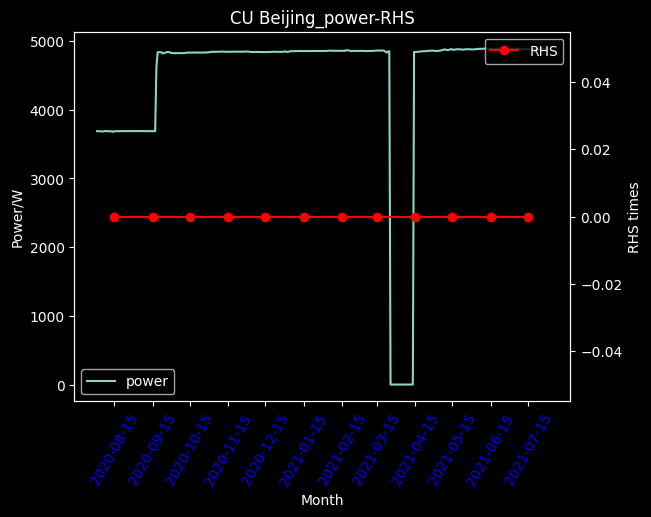
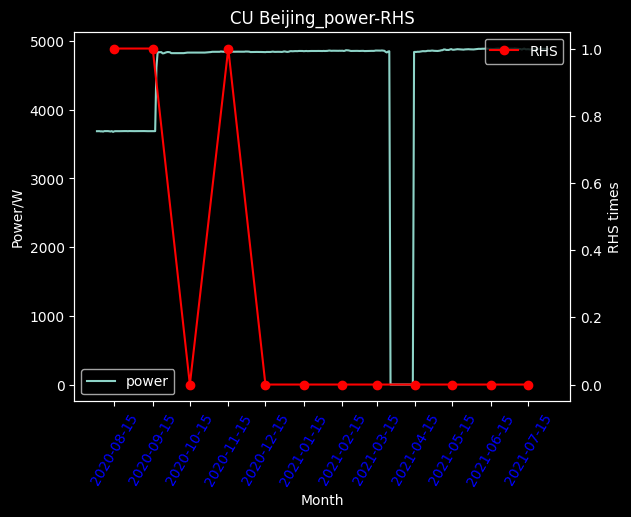
12

diff --git a/rhs_anly.py b/rhs_anly.py
@@ -11,13 +11,13 @@ import chi_test as ct
 
 raw_path = '/Users/pei/pydir/RHS_anly/raw_data/'
 result_path = '/Users/pei/pydir/RHS_anly/result/'
-rhs_log = pd.read_csv(raw_path + 'RHS Usage Log-Summary-update 20210827.csv')
+# rhs_log = pd.read_csv(raw_path + 'RHS Usage Log-Summary-update 20210827.csv')
+rhs_log = pd.read_excel(raw_path + 'RHS Usage Log-Summary-update 20210827.xlsx',engine='openpyxl',sheet_name='Log')
+# print(rhs_log)
 # print(rhs_log['Request Year-Month'].tolist())
 max_cab_pwr = pd.read_csv(raw_path + 'max_cab_power.csv')
 site_list = max_cab_pwr['Site ID'].tolist()
 total_device_list = pd.read_csv(raw_path + 'network device list.csv')
-# print(total_device_list[total_device_list['Site ID'] == site_list[0]])
-# print(site_list)
 
 pwr_file_list = os.listdir(raw_path + 'yearly_power_data/')
 for single_file in pwr_file_list:
@@ -48,20 +48,6 @@ for single_site in tqdm(site_list,desc='pwr-rhs'):
         # plt.legend(loc=2)
         plt.savefig(result_path + single_site + '_power-RHS.png', bbox_inches='tight')
         plt.close()
-'''
-bjs_power_avg = pd.read_csv(raw_path + 'yearly_power_data/CU Beijing.csv')
-bjs_power_avg = pi.power_integrated(bjs_power_avg)
-bjs_power_avg = dz.de_zero(bjs_power_avg)
-plt.plot(bjs_power_avg['Value'].tolist())
-# plt.twinx()
-date_list_sample,rhs_times_index_list,rhs_times_list = rt.rhs_times(rhs_log,'CU Beijing',bjs_power_avg)
-plt.xticks(rhs_times_index_list,date_list_sample,color='blue',rotation=60)
-plt.twinx()
-plt.plot(rhs_times_index_list,rhs_times_list,'ro-')
-plt.title('bjs_cu_pwr')
-plt.savefig(result_path + 'bjs_pwr.png',bbox_inches='tight')
-plt.close()
-'''
 
 bjs_power_avg = pd.read_csv(raw_path + 'yearly_power_data/CU Beijing.csv')
 bjs_power_avg = pi.power_integrated(bjs_power_avg)
@@ -130,7 +116,7 @@ for annote_index in range(len(rhs_times_index_list)):
     plt.annotate(max_site_list[annote_index], xy=(rhs_times_index_list[annote_index], max_fault_rate_list[annote_index]),
                  xytext=(rhs_times_index_list[annote_index], max_fault_rate_list[annote_index] + (-1)**(annote_index%2) * 0.5),
                  xycoords='data',arrowprops=dict(facecolor='blue', shrink=0.05))
-plt.title('highest_fault_rate.png')
+plt.title('highest_fault_rate')
 # plt.show()
 plt.savefig(result_path + 'highest_fault_rate.png',bbox_inches='tight')
 plt.close()
@@ -156,18 +142,47 @@ plt.title('consumale/ticket')
 plt.xticks(rhs_times_index_list,date_list_sample,color='blue',rotation=60)
 plt.savefig(result_path + 'ticket-consumale.png',bbox_inches='tight')
 plt.close()
-'''
-date_list_sample, rhs_times_index_list, total_module_num_list = rc.rhs_consumable(rhs_log,'CU Beijing',bjs_power_avg)
-# plt.plot(rhs_times_index_list,rhs_times_list,'ro-')
-# plt.plot(rhs_times_index_list, total_module_num_list,'b^-')
-csmb_tkt = []
-for index in range(len(rhs_times_list)):
-    if rhs_times_list[index] == 0:
-        csmb_tkt.append(0)
+
+current_year = int((rhs_log['Request Year-Month'].tolist()[-1]).split('-')[0])
+current_month = int((rhs_log['Request Year-Month'].tolist()[-1]).split('-')[1])
+process_period = 6
+current_year_month_list = []
+for index in range(process_period):
+    if (current_month - index) < 1:
+        current_year_month = str(current_year-1) + '-' + str(12-current_month+1)
     else:
-        csmb_tkt.append(round(total_module_num_list[index]/rhs_times_list[index],3))
-plt.plot(rhs_times_index_list, csmb_tkt,'b^-')
-plt.title('bjs_cu consumale/ticket')
-plt.savefig(result_path + 'bjs_cu ticket-consumale.png',bbox_inches='tight')
+        current_year_month = str(current_year) + '-' + str(current_month-index)
+        # print(current_year_month)
+    current_year_month_list.append(current_year_month)
+
+rhs_times_list = []
+token_qty_list = []
+for index in range(process_period):
+    current_year_month = current_year_month_list[process_period-index-1]
+    rhs_times = len(rhs_log[rhs_log['Request Year-Month']==current_year_month])
+    rhs_times_list.append(rhs_times)
+    token_num_per_month = sum(rhs_log[rhs_log['Request Year-Month']==current_year_month]['Number of Tokens'].tolist())
+    token_qty_list.append(token_num_per_month)
+
+# print(rhs_times_list)
+# print(token_qty_list)
+
 plt.close()
-'''
+plt.figure()
+plt.style.use('dark_background')
+plt.plot(list(range(process_period)),rhs_times_list,'o-',color='orange',label='Ticket')
+plt.plot(list(range(process_period)),token_qty_list,'v-',color='cyan',label='Token')
+# print(current_year_month_list)
+current_year_month_list_reverse = []
+for index in range(process_period):
+    current_year_month_list_reverse.append(current_year_month_list[process_period-index-1])
+    plt.text(index,rhs_times_list[index]-0.6,rhs_times_list[index])
+    plt.text(index,token_qty_list[index]+0.2, token_qty_list[index])
+# print(current_year_month_list_reverse)
+# print(list(range(process_period)))
+x_index = list(range(process_period))
+plt.xticks(x_index,current_year_month_list_reverse,rotation=45)
+plt.legend()
+
+plt.title('Ticket-Tocken')
+plt.savefig(result_path + 'ticket_token')

diff --git a/test2.py b/test2.py
@@ -1,8 +1,4 @@
-import numpy as np
-a = np.array([4,2,3])
-b = np.array([2,5,7])
-
-c = a/b
-d = np.multiply(a,b)
-e = (a-b) ** 2/ b
-print(e)
+a = list(range(6))
+print(a)
+a.reverse()
+print(a)
